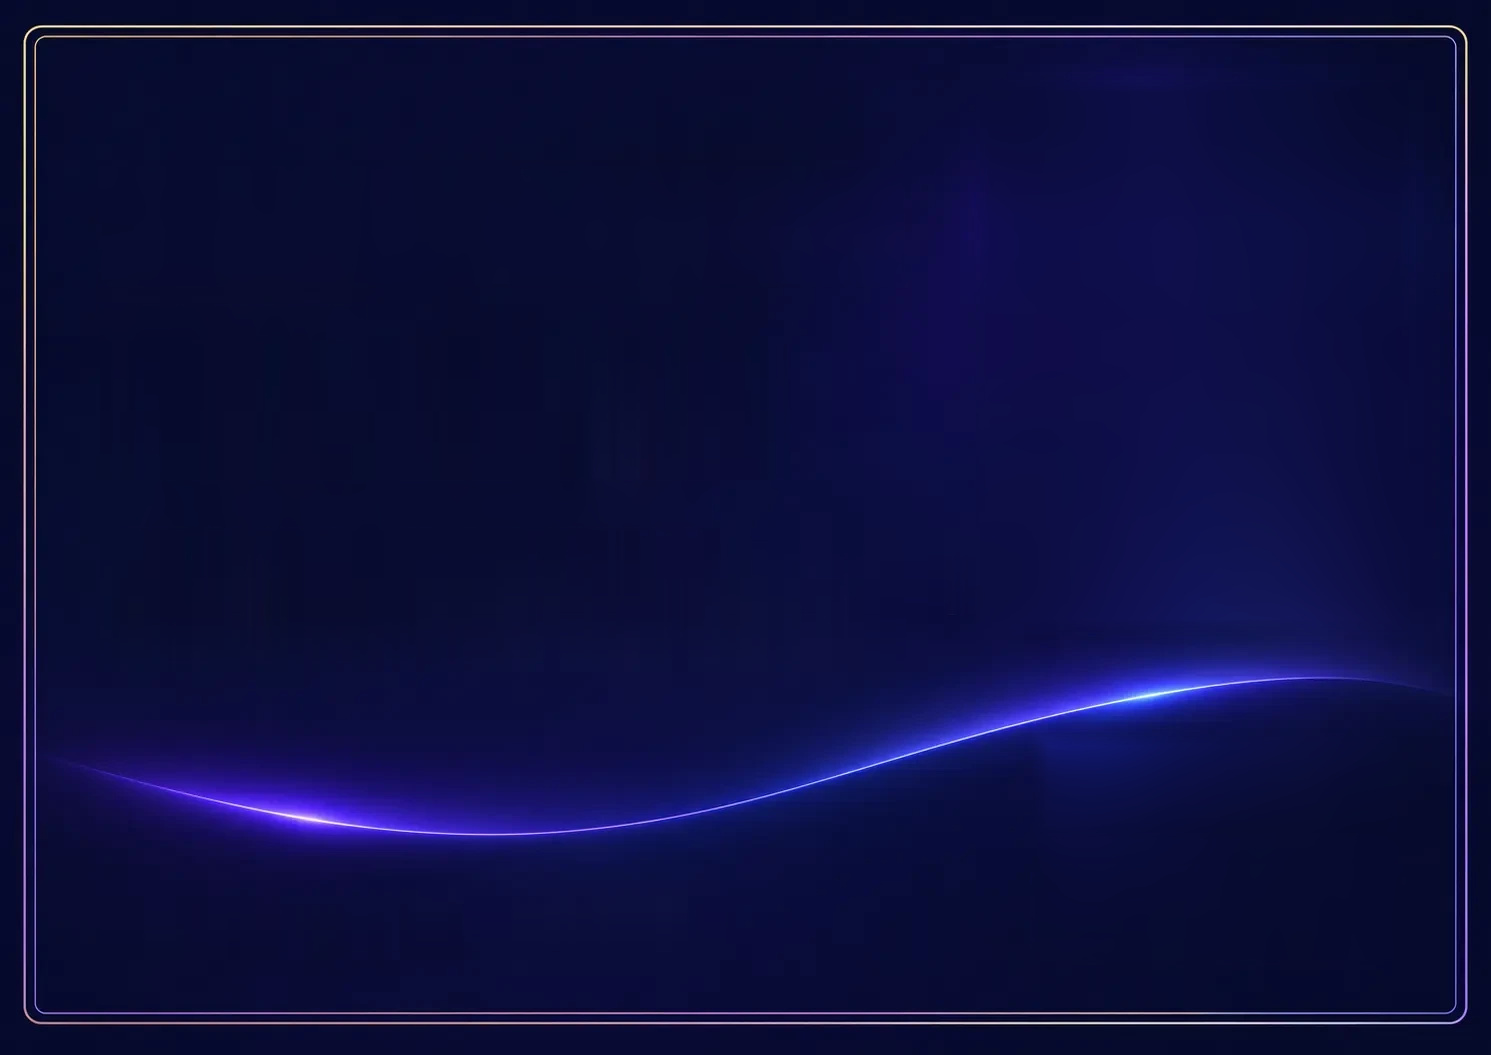
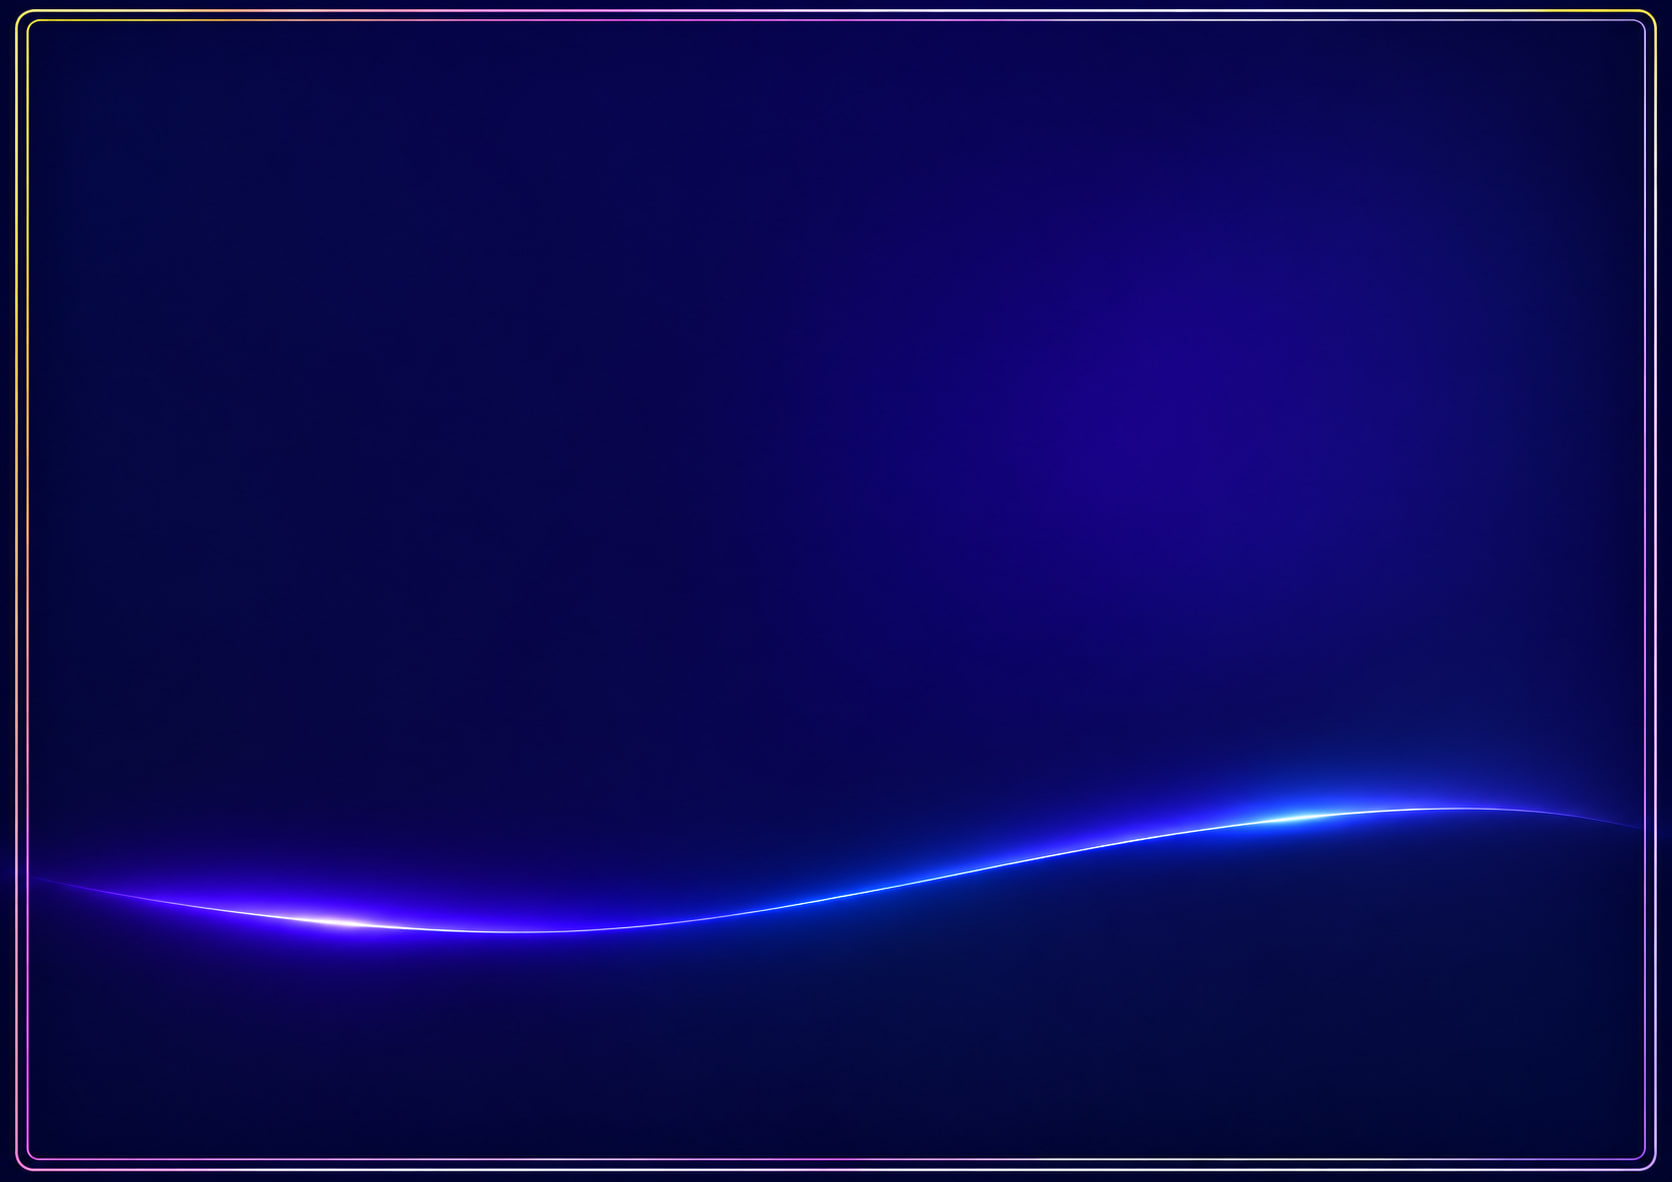
feat(certificates): the owner's clean navy background
The badge's glow showed through the old extracted sheet. The owner's own
artwork (16:9) is made A4 by adding rows only in plain navy, above and below
the wave, so the frame and wave are untouched; badge and signature tiles
baked again on it. Template version 3 so cached PDFs are drawn again.

diff --git a/apps/api/src/modules/certificates/render/certificate-pdf.ts b/apps/api/src/modules/certificates/render/certificate-pdf.ts
@@ -40,8 +40,8 @@ import {
 /** Bump `version` when a change would alter certificates already issued. */
 export const CERTIFICATE_TEMPLATE = {
   key: "procodrr-classic",
-  // 2: the navy design (26 Nov 2026).
-  version: 2,
+  // 2: the navy design (26 Nov 2026); 3: the owner's clean background (27 Nov).
+  version: 3,
 } as const;
 
 export interface CertificateRenderInput {

diff --git a/apps/api/src/modules/certificates/README.md b/apps/api/src/modules/certificates/README.md
@@ -60,10 +60,11 @@ when the academy turns that off. Staff can also issue one by hand. Anyone can ch
 
 ## PDF
 
-- The built-in design (`render/builtin-design.ts`, template version 2) is
+- The built-in design (`render/builtin-design.ts`, template version 3) is
   ProCodrr's navy certificate (finalised 26-27 Nov 2026):
-  - its background (`assets/navy-sheet.jpg`) is artwork only: navy, frame,
-    wave; no text;
+  - its background (`assets/navy-sheet.jpg`, the owner's 16:9 artwork made
+    A4 by adding rows only in plain navy above and below the wave) is
+    artwork only (navy, frame, wave; no text);
   - every word is drawn by pdfkit: the fixed text ("Certificate of
     Completion" and its gold rule, "AWARDED TO", "In recognition of
     successful completion of", the signature's gold rule, "ANURAG SINGH",
